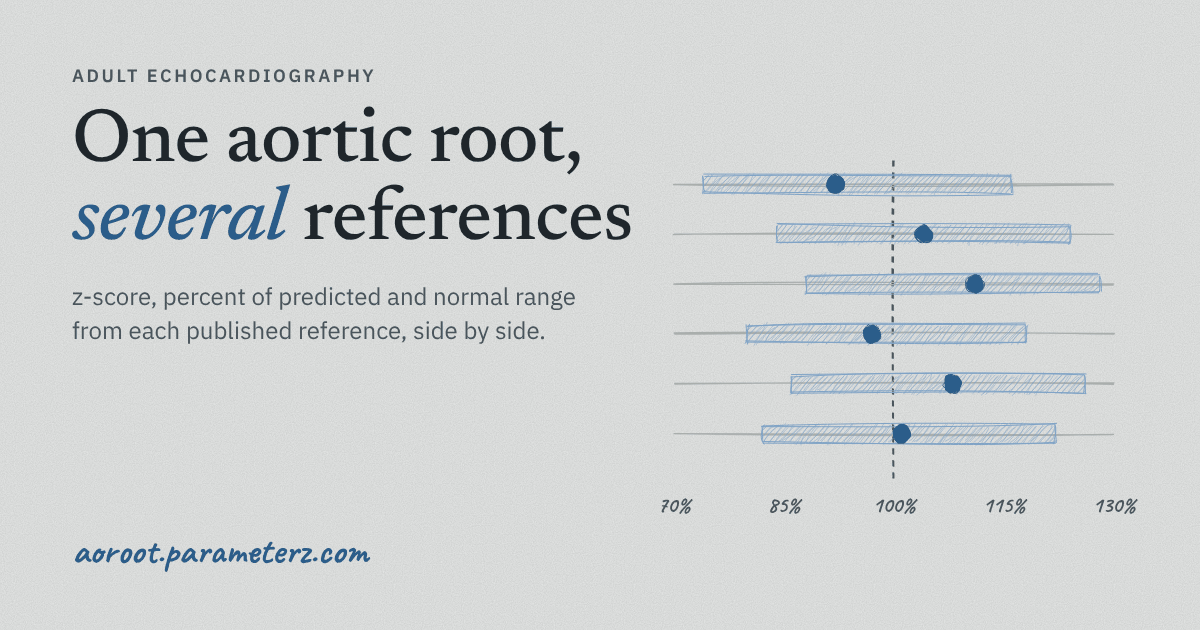
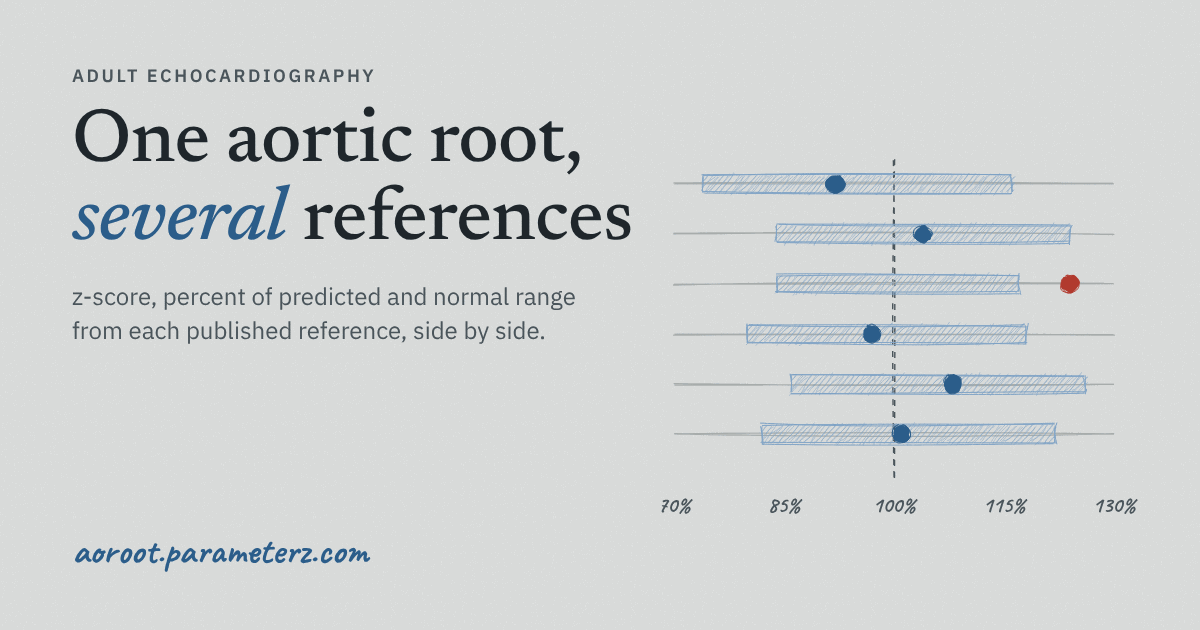
Share image: one reference flags the root as high (red dot past its range)
Claude-Session: https://claude.ai/code/session_01N6Mf2rPjuUJB8ws3AgkwyW

diff --git a/docs/og-card.html b/docs/og-card.html
@@ -36,15 +36,16 @@ import rough from "../vendor/rough.esm.js";
 const svg = document.getElementById("c"), rc = rough.svg(svg);
 const add = (n) => svg.appendChild(n);
 const x = (p) => 30 + (p - 70) * (440 / 60);           // 70%–130%
-const rows = [[92, 74, 116], [104, 84, 124], [111, 88, 128], [97, 80, 118], [108, 86, 126], [101, 82, 122]];
-const ink = "#1f262b", band = "#7fa3c6", dot = "#2b5d8a";
+const rows = [[92, 74, 116], [104, 84, 124], [124, 84, 117], [97, 80, 118], [108, 86, 126], [101, 82, 122]];
+const ink = "#1f262b", band = "#7fa3c6", dot = "#2b5d8a", out = "#b23a2e";
 // dashed 100% line
 add(rc.line(x(100), 10, x(100), 330, { stroke: "#4a555c", strokeWidth: 1.4, strokeLineDash: [6, 6], roughness: 1 }));
 rows.forEach(([p, lo, hi], i) => {
   const y = 34 + i * 50;
   add(rc.line(x(70), y, x(130), y, { stroke: "#a9aeac", strokeWidth: 1.3, roughness: 1.2 }));
   add(rc.rectangle(x(lo), y - 9, x(hi) - x(lo), 18, { fill: band, fillStyle: "hachure", hachureGap: 4, stroke: band, strokeWidth: 1, roughness: 1.4 }));
-  add(rc.circle(x(p), y, 17, { fill: dot, fillStyle: "solid", stroke: dot, roughness: 1.2 }));
+  const c = p > hi || p < lo ? out : dot;   // one reference calls it high
+  add(rc.circle(x(p), y, 17, { fill: c, fillStyle: "solid", stroke: c, roughness: 1.2 }));
 });
 for (const p of [70, 85, 100, 115, 130]) {
   const t = document.createElementNS("http://www.w3.org/2000/svg", "text");
